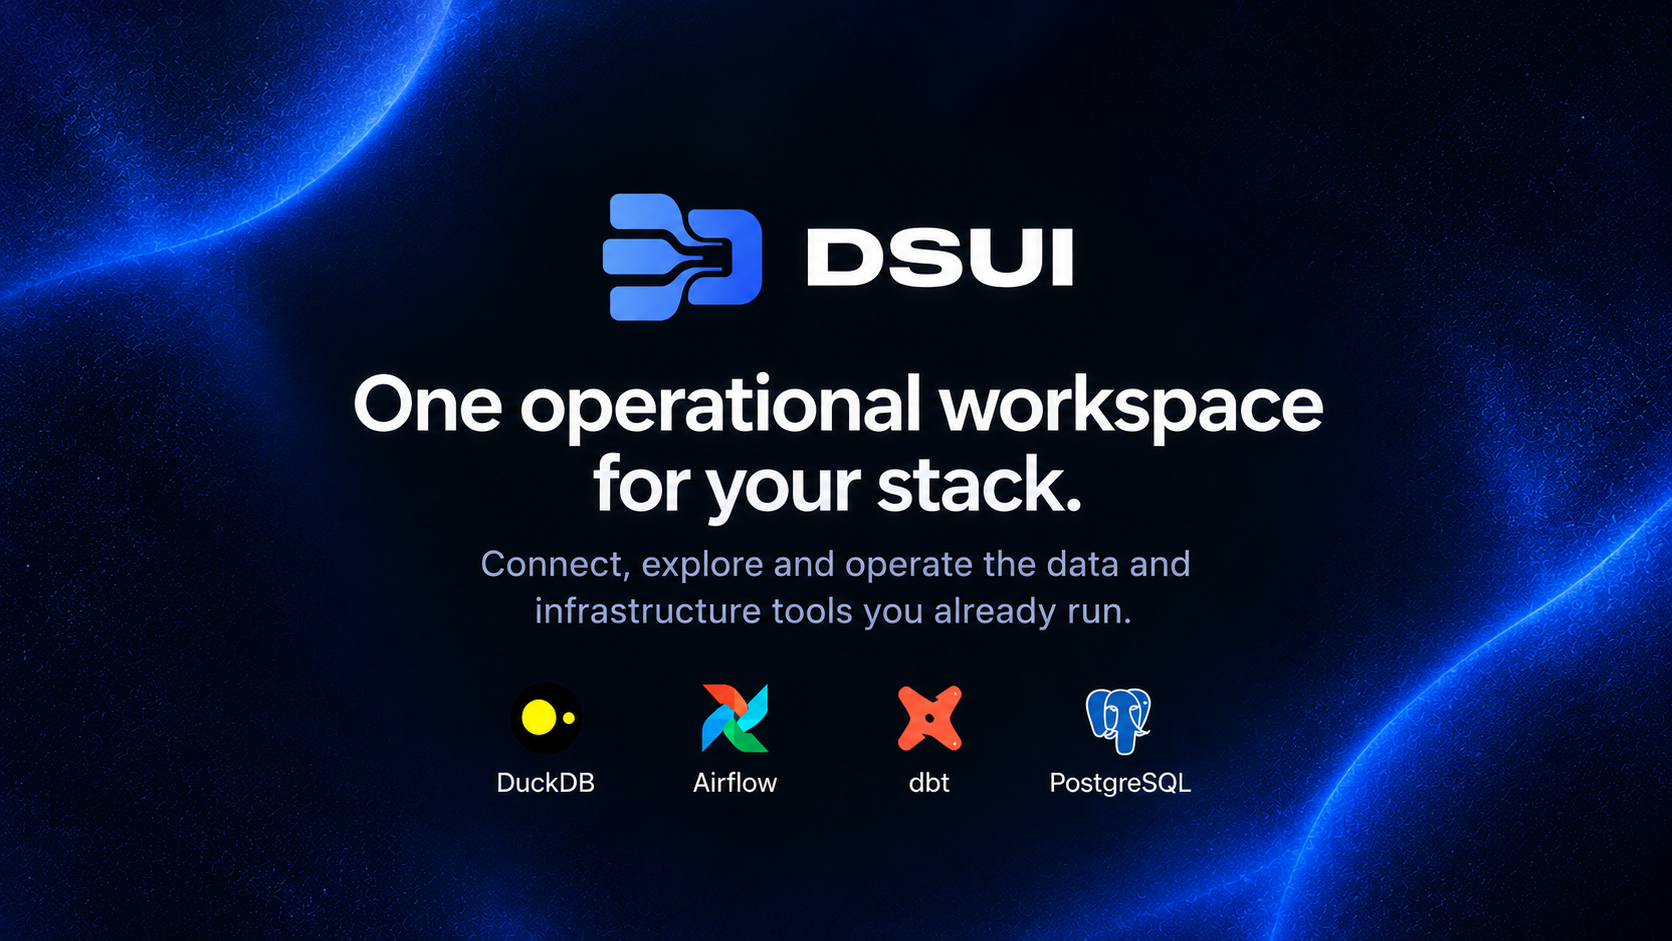
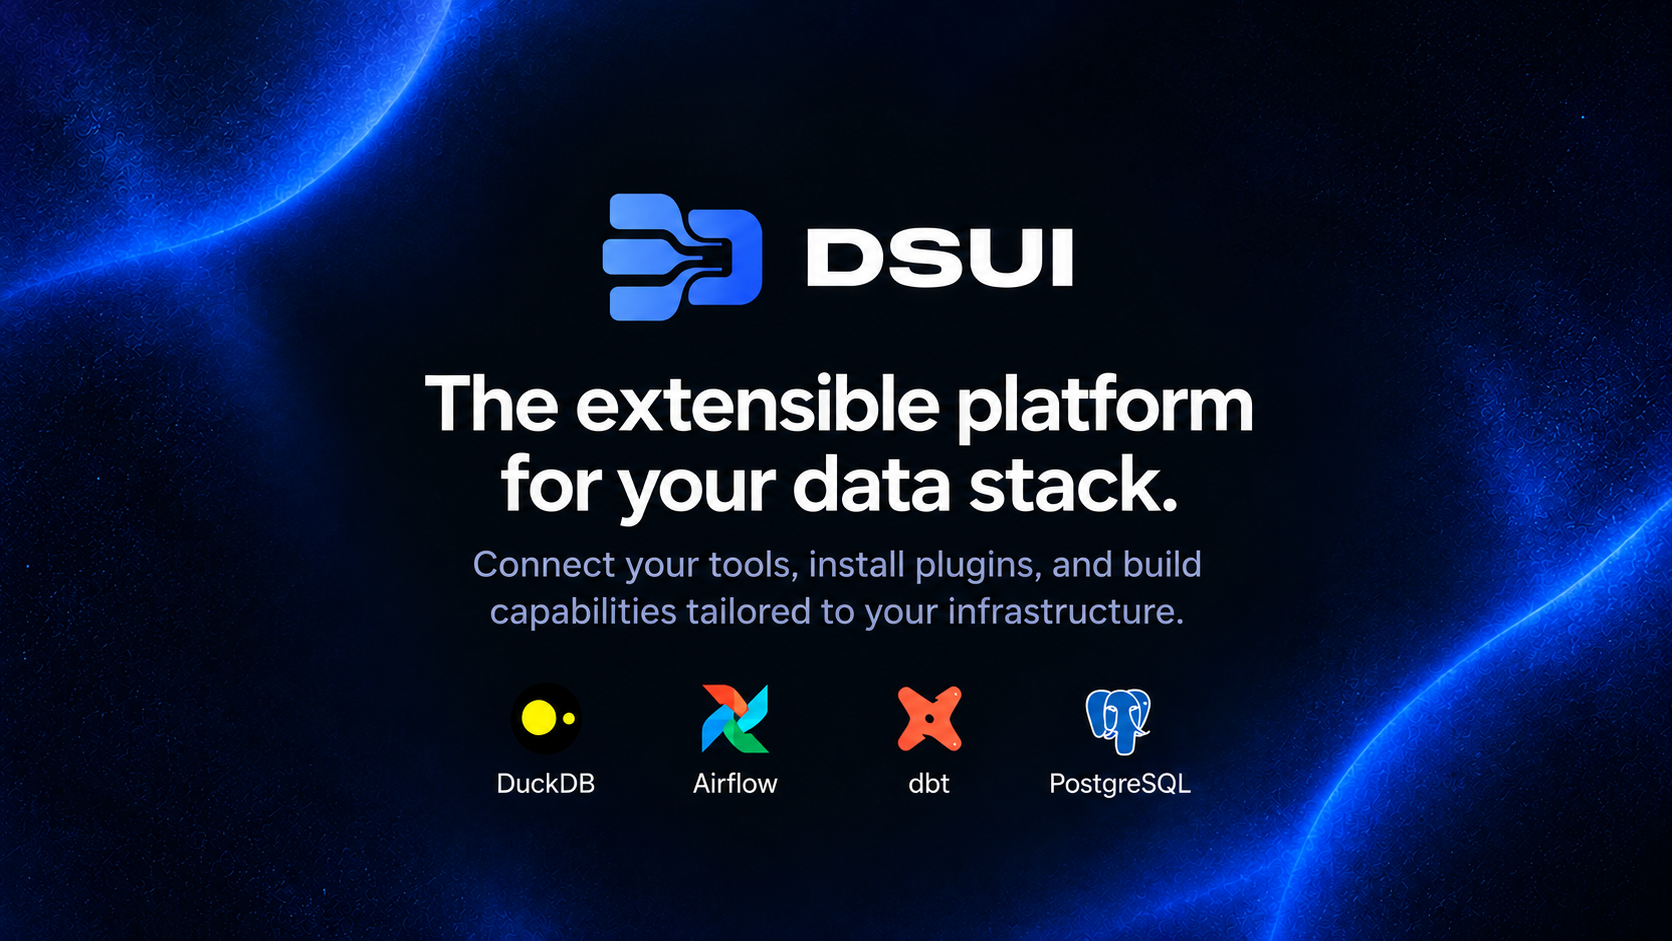
feat(site): align landing positioning and calls to action
Fixes DSUI-131

diff --git a/apps/site/src/styles/global.css b/apps/site/src/styles/global.css
@@ -163,8 +163,6 @@
   --color-brand: var(--ds-color-brand);
   --color-brand-strong: var(--ds-color-brand-strong);
   --color-brand-deep: var(--ds-color-brand-deep);
-  --color-adapter-trino: var(--ds-cyan-300);
-  --color-adapter-trino-glow: var(--ds-cyan-400);
   --color-adapter-kafka: var(--ds-rose-300);
   --color-adapter-kafka-glow: var(--ds-rose-400);
   --color-adapter-kafka-mid: var(--ds-orange-400);
